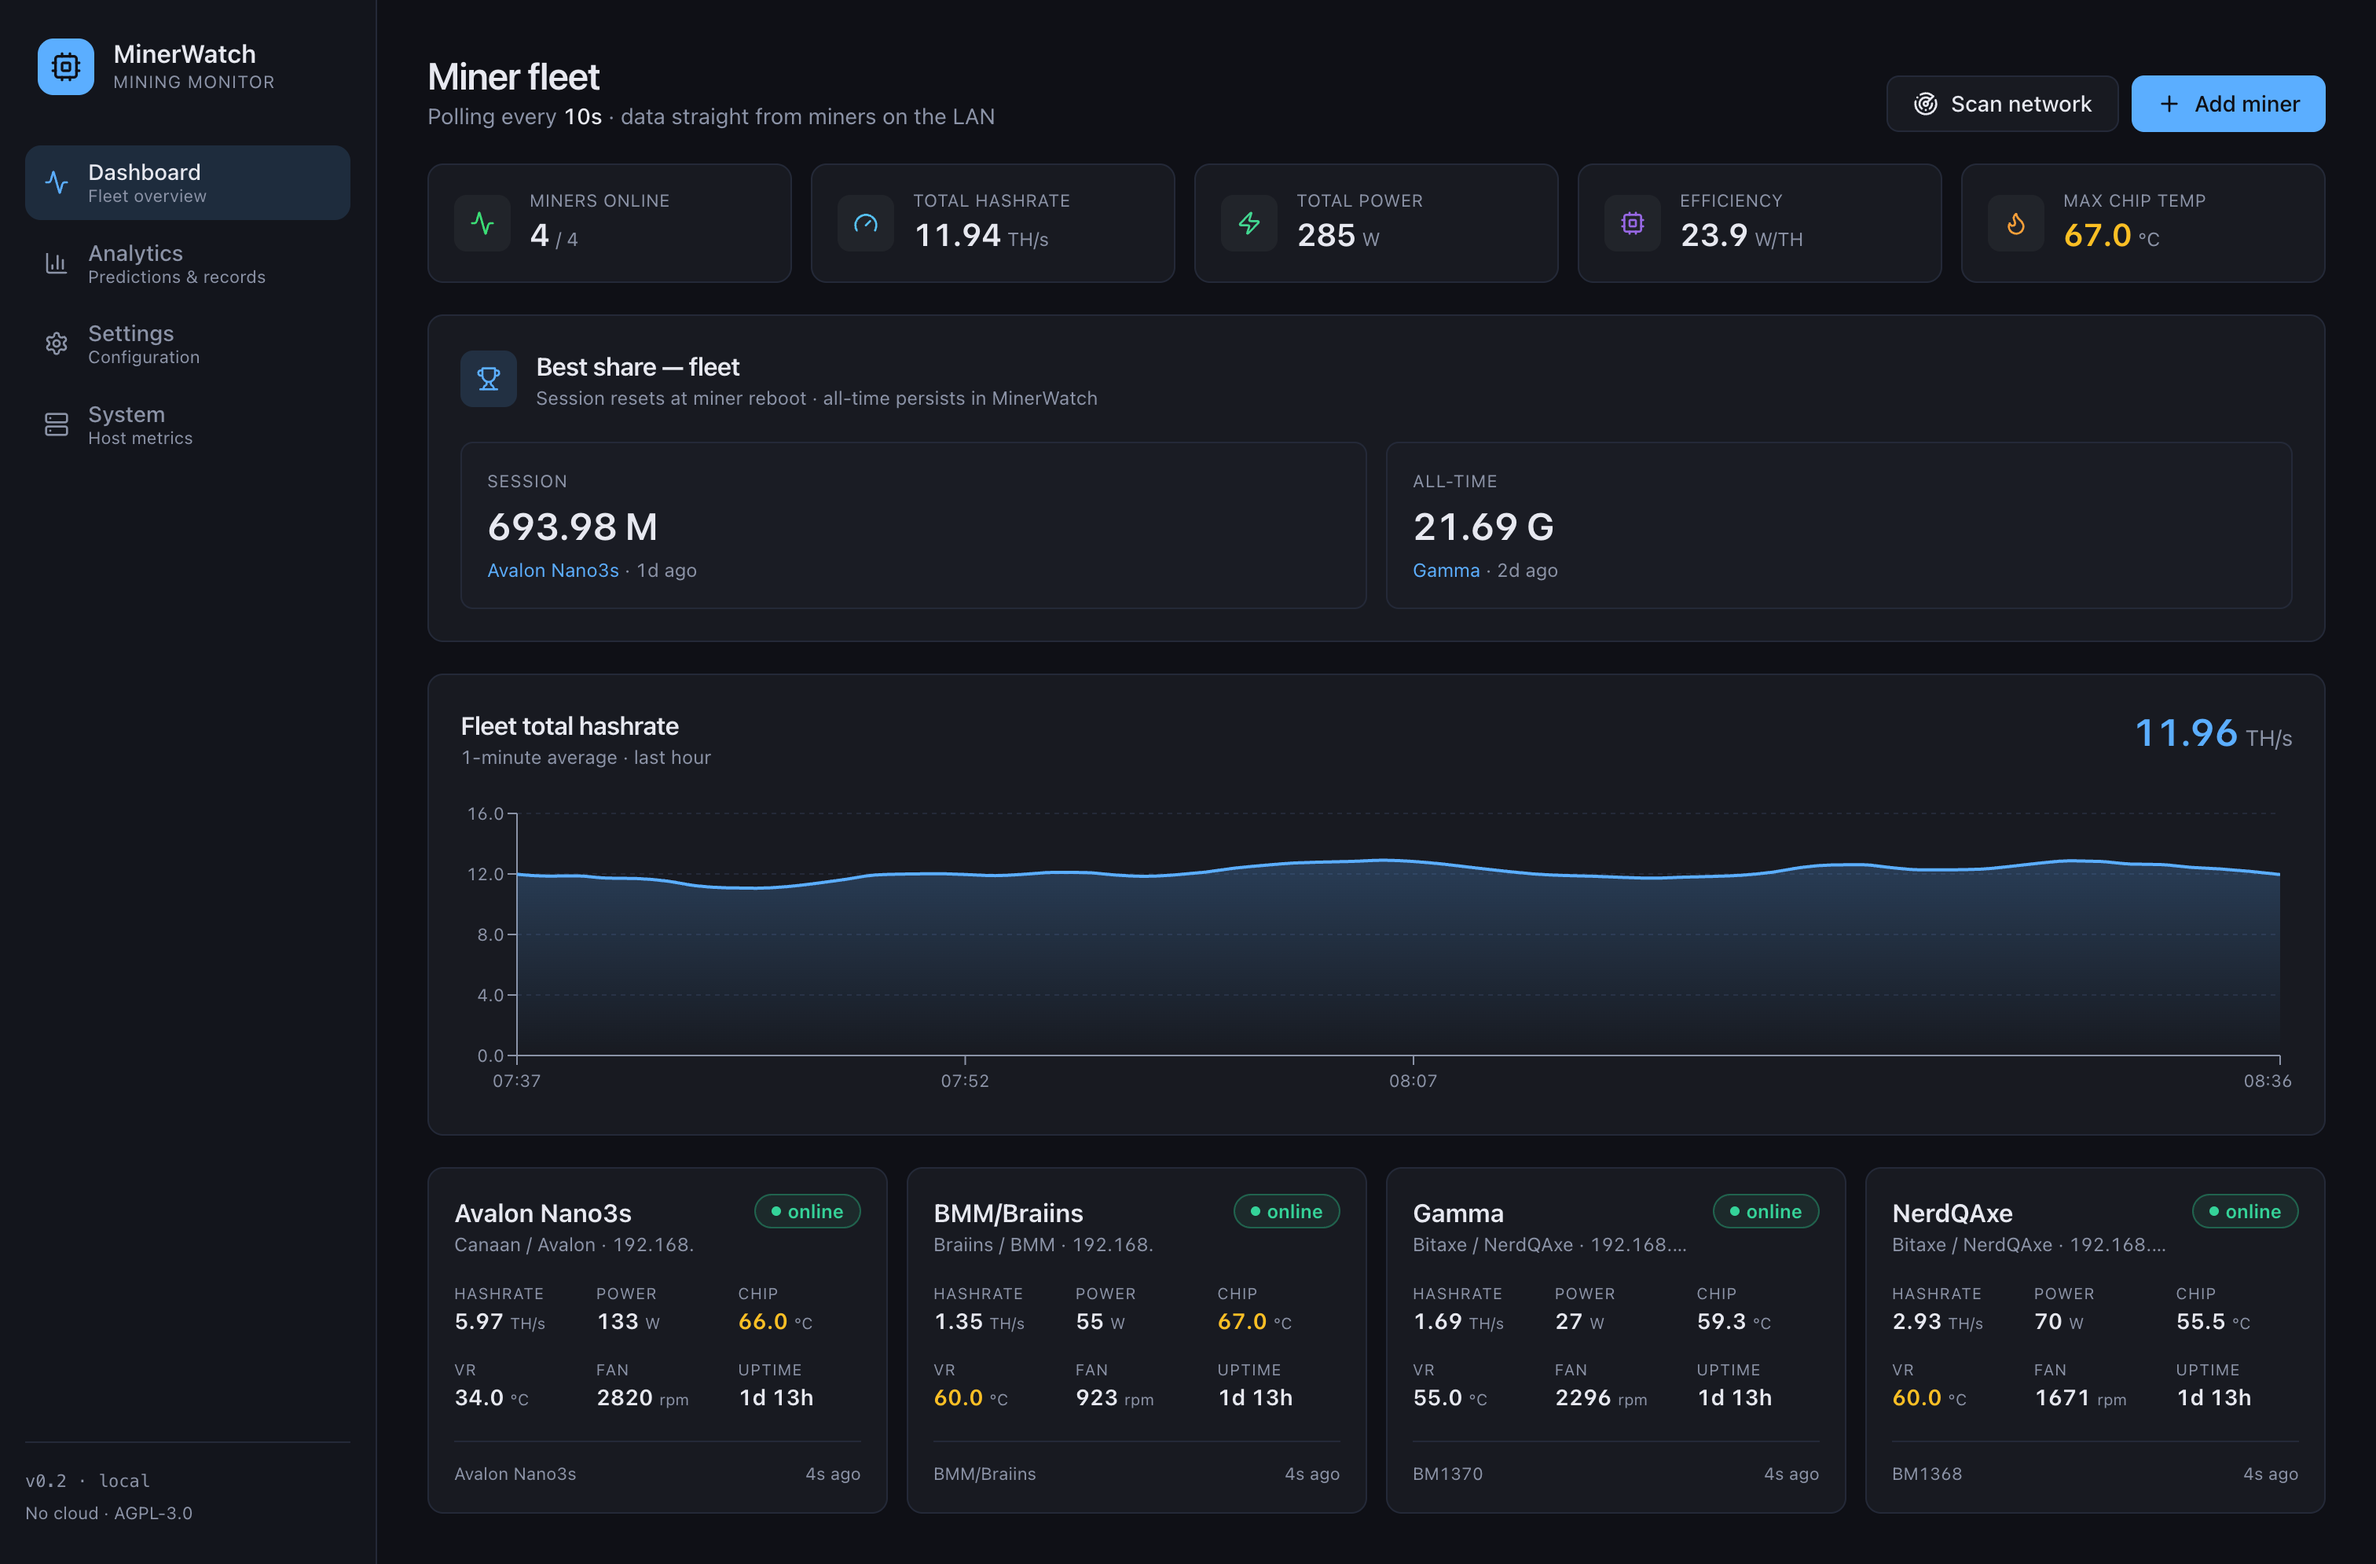
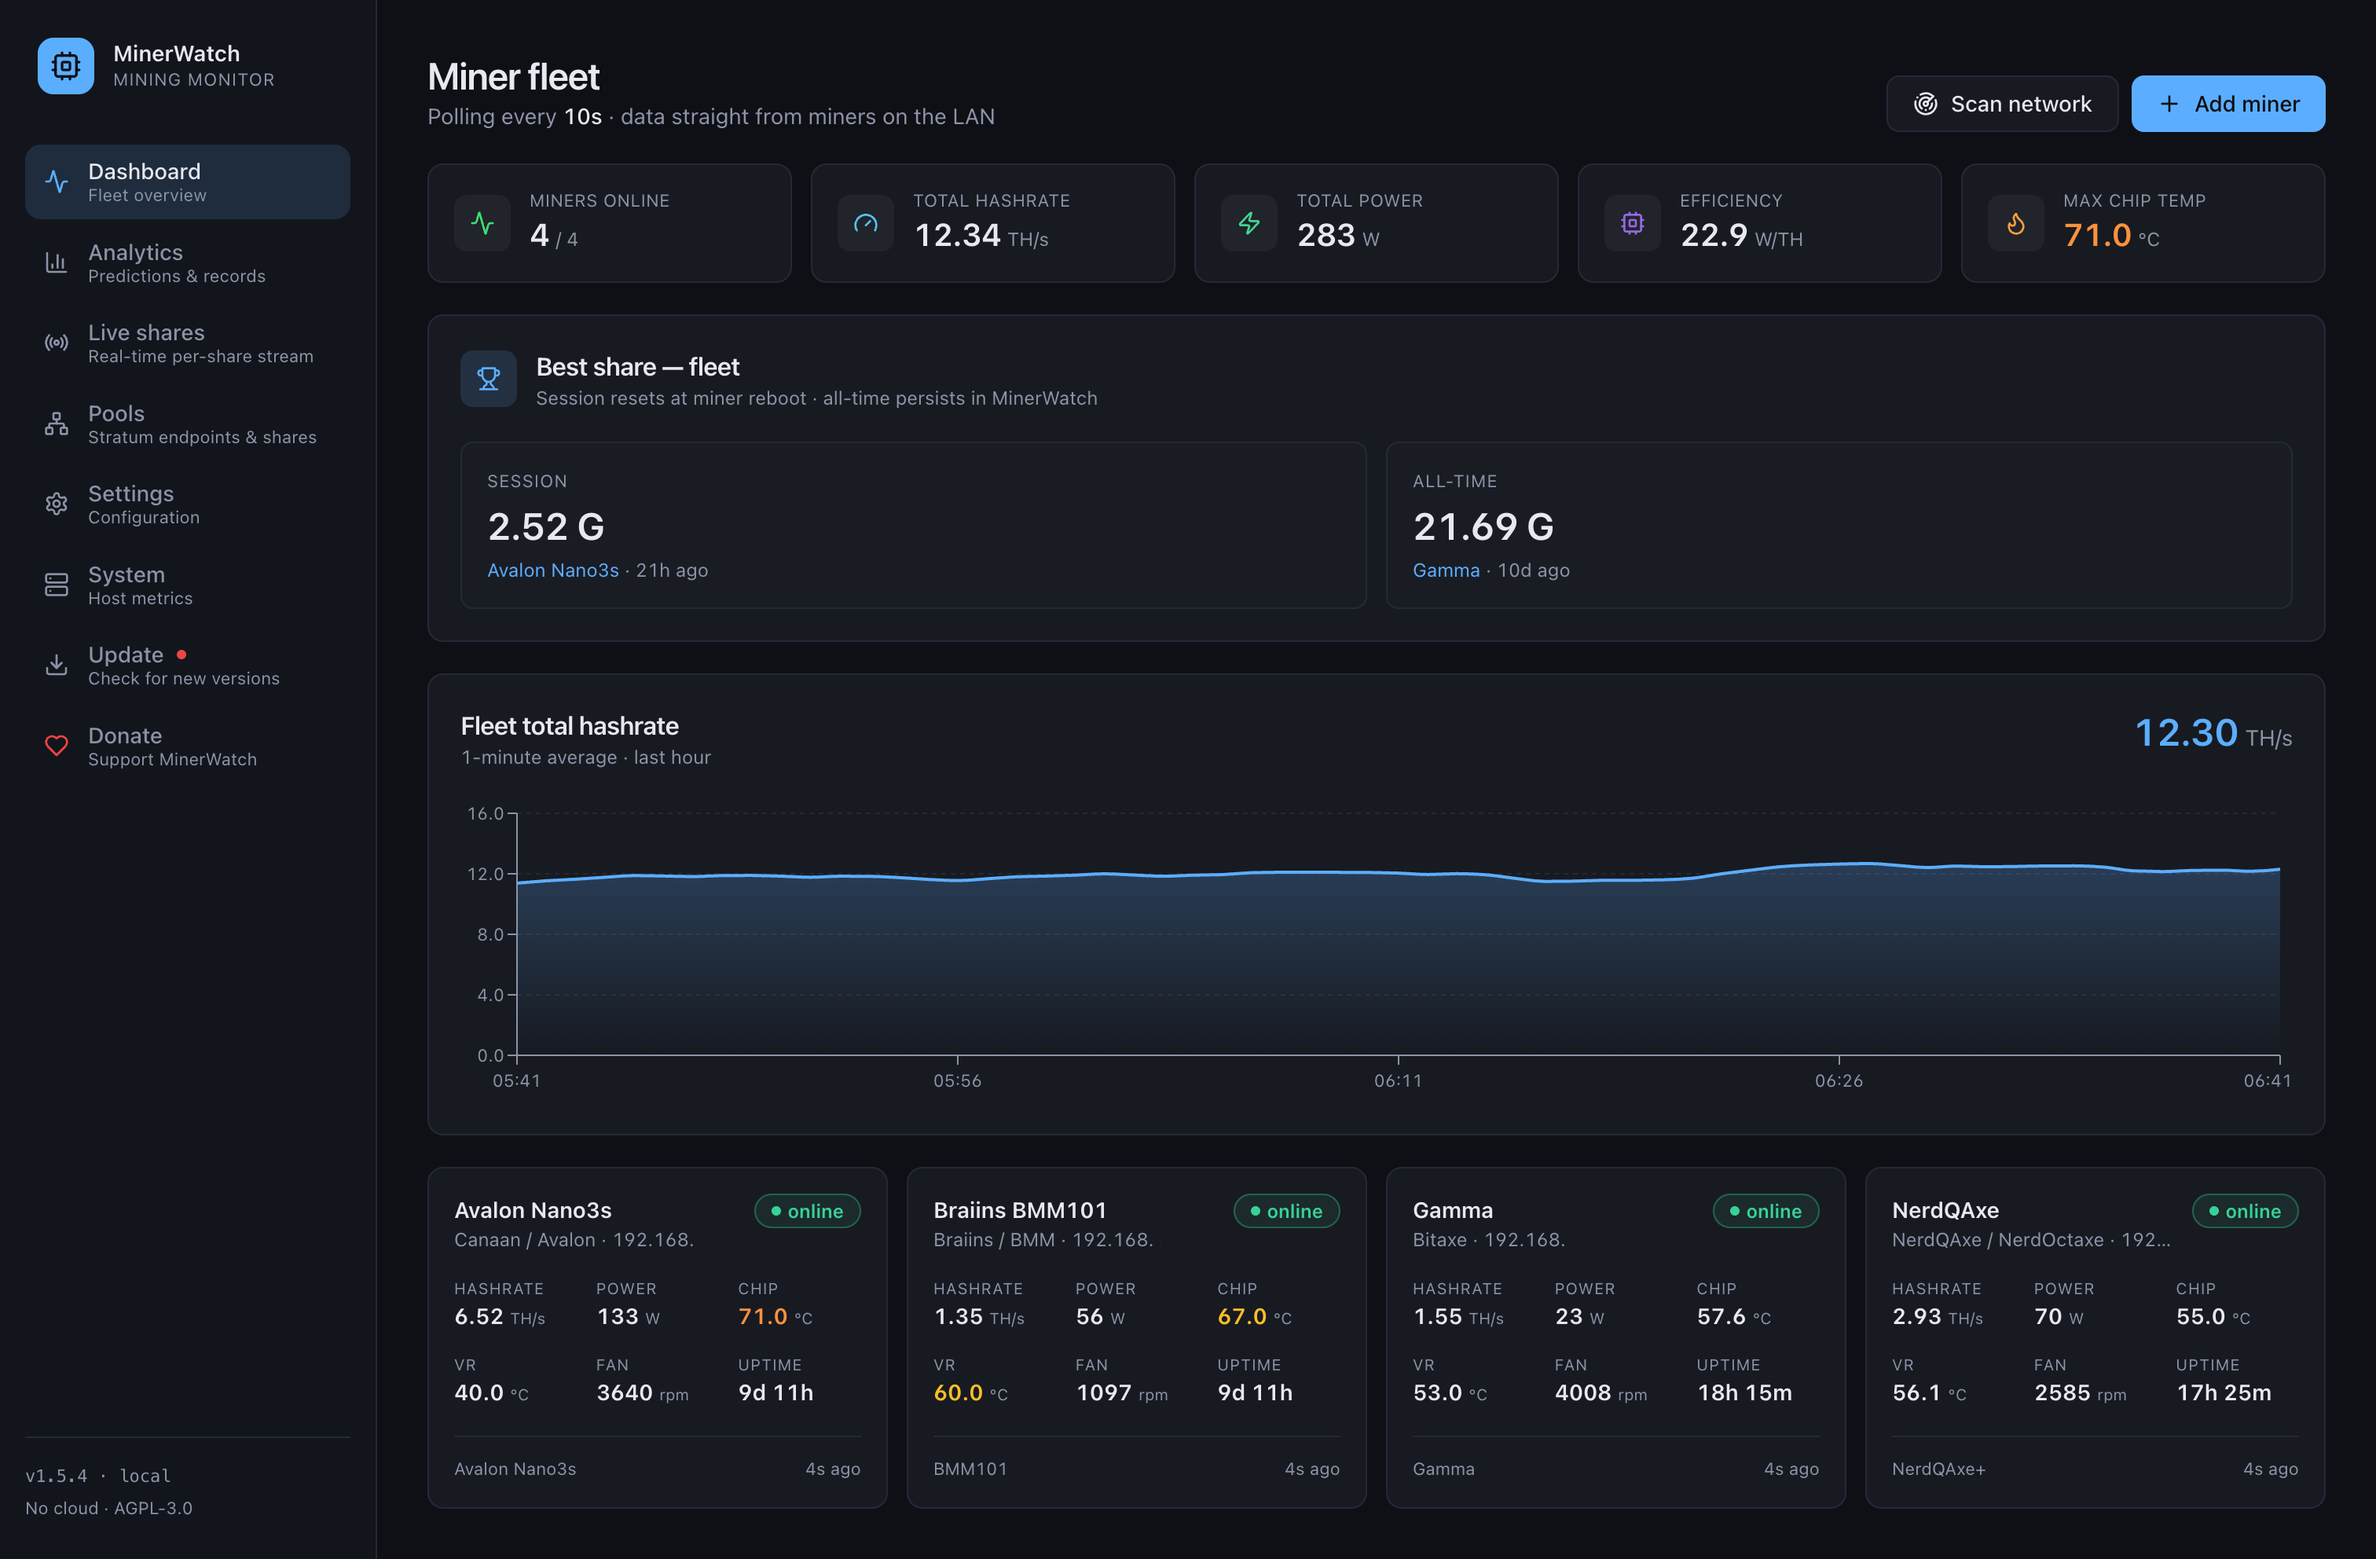
Update screenshots and add pools live-shares donations and update views to README

diff --git a/README.md b/README.md
@@ -29,13 +29,11 @@ miners on your home network — all from your browser, no cloud, no telemetry.
     <td align="center">
       <strong>Dashboard</strong><br/>
       <sub>Fleet overview · live miner cards · hashrate chart</sub><br/>
-      <!-- Replace docs/screenshots/dashboard.png with a fresh 1280×800 capture of / -->
       <img src="docs/screenshots/dashboard.png" alt="Dashboard" width="100%"/>
     </td>
     <td align="center">
       <strong>Miner controls</strong><br/>
       <sub>Per-device Controls tab · fan slider · AUTO PID</sub><br/>
-      <!-- Capture /miner/&lt;id&gt; with the Controls tab open and save as docs/screenshots/miner-controls.png -->
       <img src="docs/screenshots/miner-controls.png" alt="Miner controls" width="100%"/>
     </td>
   </tr>
@@ -43,14 +41,36 @@ miners on your home network — all from your browser, no cloud, no telemetry.
     <td align="center">
       <strong>Analytics</strong><br/>
       <sub>Beat-best & find-block predictions · top best shares</sub><br/>
-      <!-- Capture /analytics and save as docs/screenshots/analytics.png -->
       <img src="docs/screenshots/analytics.png" alt="Analytics" width="100%"/>
     </td>
     <td align="center">
       <strong>System</strong><br/>
       <sub>Raspberry Pi host metrics · throttling · CPU temp</sub><br/>
-      <!-- Capture /system on the Pi and save as docs/screenshots/system.png -->
       <img src="docs/screenshots/system.png" alt="System" width="100%"/>
+    </td>
+  </tr>
+  <tr>
+    <td align="center">
+      <strong>Pools</strong><br/>
+      <sub>Every configured pool · accepted/rejected · ping latency</sub><br/>
+      <img src="docs/screenshots/pools.png" alt="Pools" width="100%"/>
+    </td>
+    <td align="center">
+      <strong>Live shares</strong><br/>
+      <sub>Real-time per-share stream · diff vs target (AxeOS)</sub><br/>
+      <img src="docs/screenshots/liveshares.png" alt="Live shares" width="100%"/>
+    </td>
+  </tr>
+  <tr>
+    <td align="center">
+      <strong>Donate hashrate</strong><br/>
+      <sub>Lend miners to the project solo pool · auto-revert</sub><br/>
+      <img src="docs/screenshots/donations.png" alt="Donate hashrate" width="100%"/>
+    </td>
+    <td align="center">
+      <strong>Update</strong><br/>
+      <sub>Version check · release notes · update flow</sub><br/>
+      <img src="docs/screenshots/update.png" alt="Update" width="100%"/>
     </td>
   </tr>
 </table>
